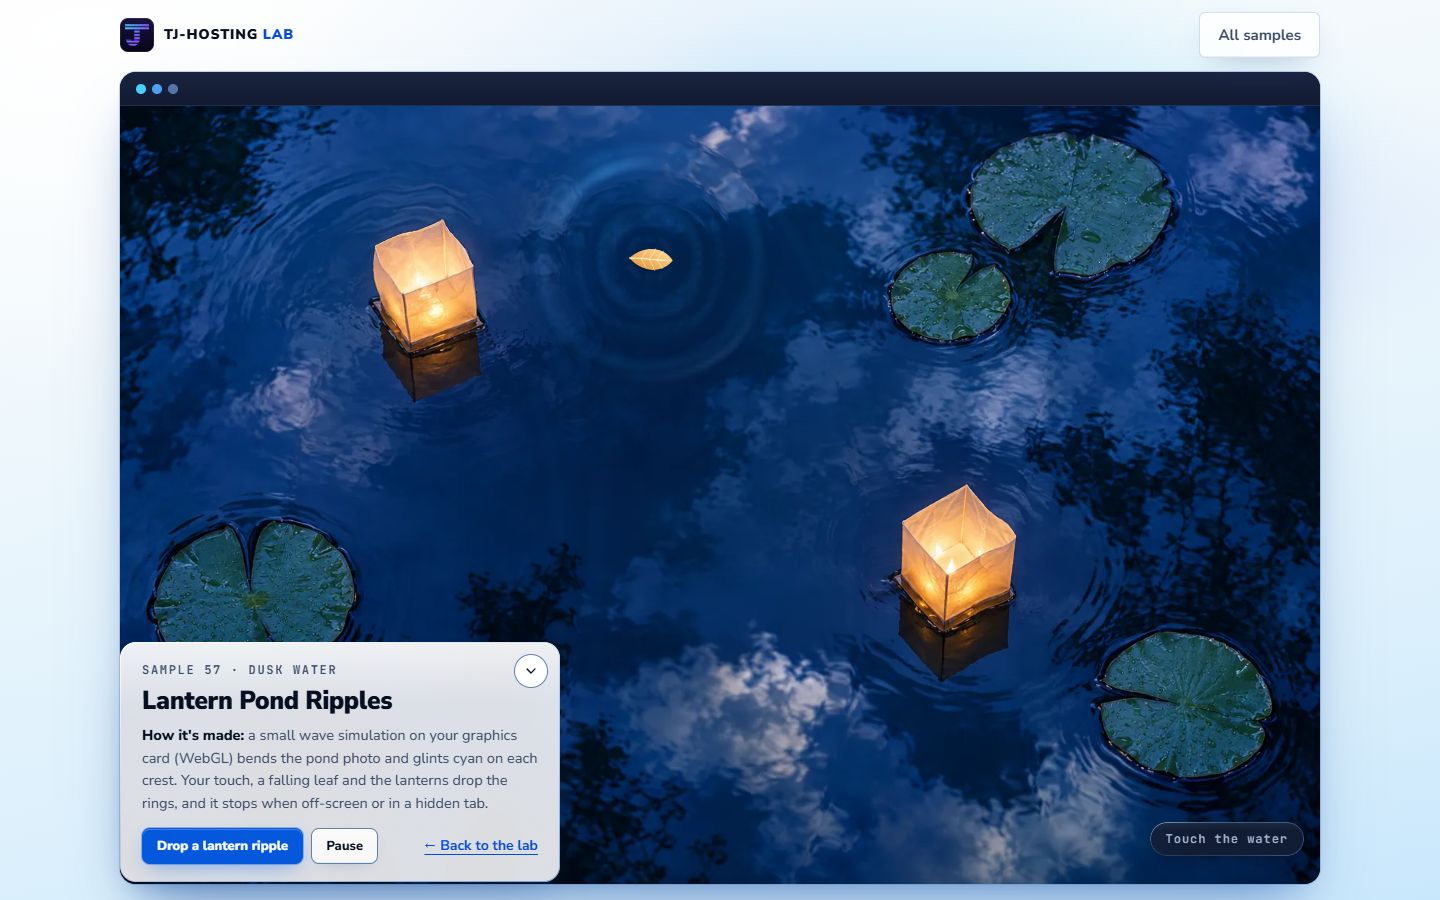
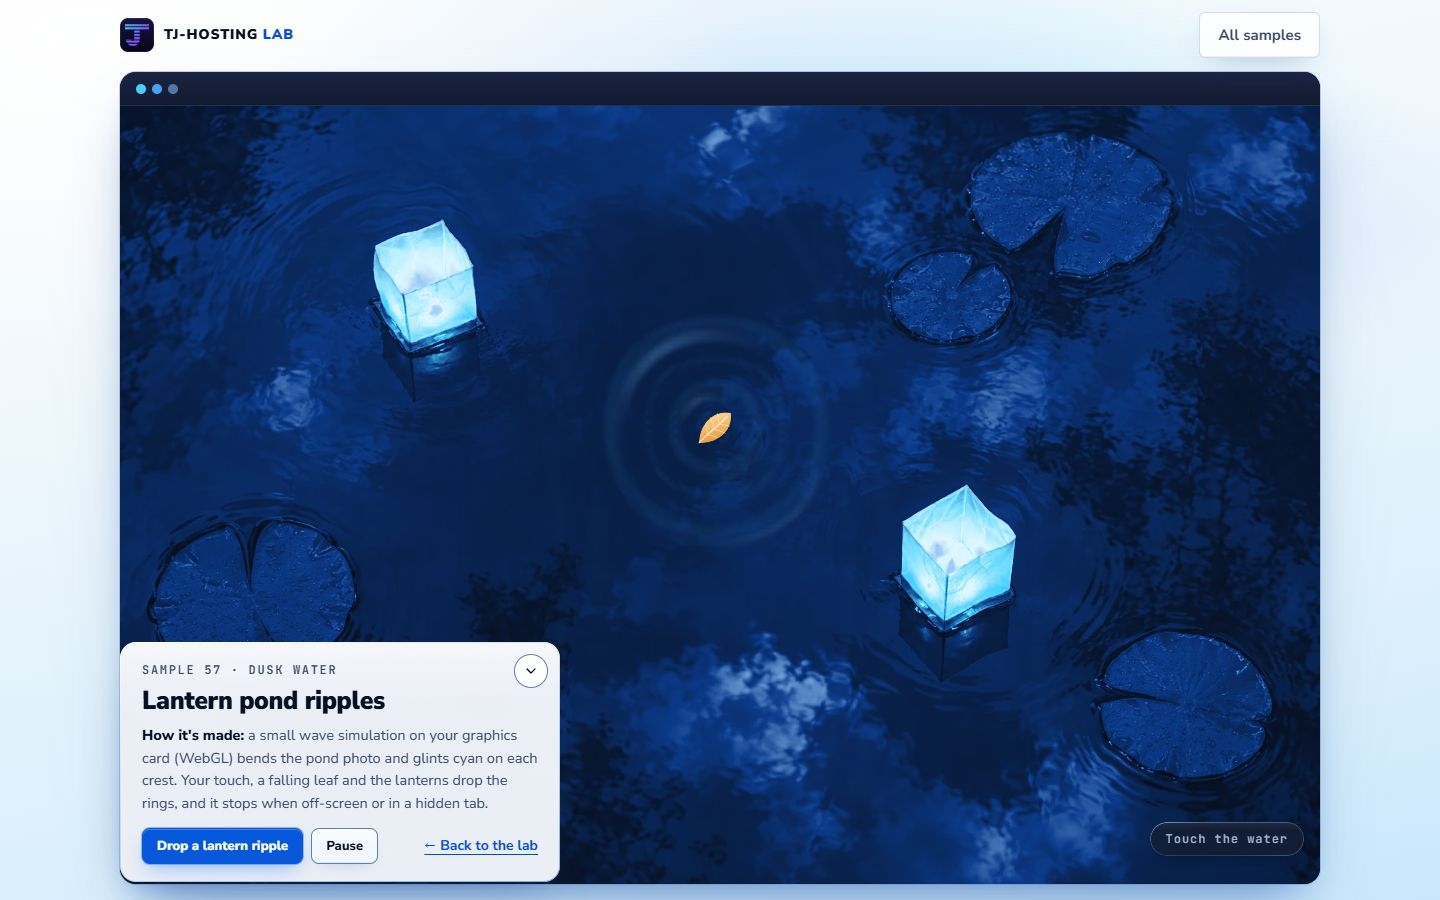
improve(lab-05): first fixes from the blind DS v9 review
review-1.md (Opus, images only): mostly, 7.5/10. Fixed: lantern-pond graded to a navy tritone with cyan lanterns; icon-micro-set heading as a heavy sans line with one script word, script words in ink on three more samples; pressed toggles as ink in a royal ring (all pages); the panel stays white-blue over dark windows; the back link on its own line on phones; liquid-glass-lens takes the navy frame bar; icon-micro-set bursts in cyan only. Remaining findings are listed in TASKS.

diff --git a/samples/lantern-pond/piece.js b/samples/lantern-pond/piece.js
@@ -4,7 +4,7 @@
  * float textures; each step every cell is pulled toward the average of its neighbours, damped, and added to itself;
  * a "drop" lifts a smooth bump that spreads out as rings. The render shader reads the slope of that field, bends the
  * photo along it, and adds a cyan glint and a cyan caustic where the surface catches the light. Pointer and finger
- * leave ripples; a golden leaf falls and lands with a ring every few seconds, and the two lanterns shed a faint ring
+ * leave ripples; a small golden leaf (the one warm accent) falls and lands with a ring every few seconds, and the two lanterns shed a faint ring
  * now and then, so the pond is alive on load. One loop() drives the simulation, the render and the leaf, so no WebGL
  * work runs off-screen or in a hidden tab. Under reduced motion a few rings are simulated at once, one still frame is
  * drawn and nothing moves. A browser without WebGL float textures gets the photo as a plain picture with a note.
@@ -19,7 +19,8 @@
  * at the next step; the simulation runs on a fixed 60 Hz clock; render() reads the newest height texture (the
  * source reads the one before it on every other frame); the texture probing runs in the page's own context and also
  * accepts half floats alone; precision falls back to mediump; the picture is drawn opaque; the render shader adds the
- * cyan caustic and glint (the glint was white); pointer events replace mouse and touch events and trace the stroke
+ * cyan caustic and glint (the glint was white); the photo is graded in the shader to a night-blue luminance tritone with
+ * the warm lantern light turned cyan-white; pointer events replace mouse and touch events and trace the stroke
  * between events; a lost context is rebuilt; the resolution and the render scale are picked by device and lowered if
  * frames run slow. New: the falling leaf, the lantern rings, the idle life, the reduced-motion still, the fallback.
  *
@@ -144,8 +145,10 @@ void main() {
 	gl_Position = vec4(vertex.x, -vertex.y, 0.0, 1.0);
 }`;
 
-/* the photo bent along the slope of the water, then a cyan glint where the slope faces the light,
-   and a cyan caustic where the surface curves like a lens (crests) */
+/* the photo bent along the slope of the water, graded to the site's night blues (a luminance tritone; the warm
+   lantern light becomes cyan-white glass light), then a cyan glint where the slope faces the light,
+   and a cyan caustic where the surface curves like a lens (crests).
+   The ramps are mirrored by the SVG filter #pond-grade in index.html (the no-WebGL picture), so keep them in step. */
 const RENDER_FRAGMENT = `${PRECISION}
 uniform sampler2D samplerBackground;
 uniform sampler2D samplerRipples;
@@ -153,7 +156,23 @@ uniform vec2 delta;
 uniform float perturbance;
 varying vec2 ripplesCoord;
 varying vec2 backgroundCoord;
-const vec3 CYAN = vec3(0.275, 0.816, 0.984);
+const vec3 CYAN = vec3(0.275, 0.816, 0.984);   // #46d0fb
+const vec3 SHADOW = vec3(0.0235, 0.0471, 0.0941); // #060c18
+const vec3 MID = vec3(0.0431, 0.2275, 0.5412);    // #0b3a8a
+const vec3 HIGH = vec3(0.6235, 0.8157, 0.9843);   // #9fd0fb
+const vec3 ICE = vec3(0.8784, 0.9686, 1.0);       // #e0f7ff
+const float MID_AT = 0.42;
+vec3 tritone(float l) {
+	return mix(mix(SHADOW, MID, clamp(l / MID_AT, 0.0, 1.0)), mix(MID, HIGH, clamp((l - MID_AT) / (1.0 - MID_AT), 0.0, 1.0)), step(MID_AT, l));
+}
+vec3 glowRamp(float l) {
+	return mix(mix(MID, CYAN, smoothstep(0.18, 0.55, l)), ICE, smoothstep(0.55, 0.92, l));
+}
+vec3 grade(vec3 c) {
+	float l = pow(dot(c, vec3(0.2126, 0.7152, 0.0722)), 0.78); // a gentle lift, so the water reads royal rather than black
+	float warm = clamp((c.r - c.b) * 3.0 - 0.2, 0.0, 1.0); // amber and orange (the lanterns and their reflections); water, pads and clouds sit at 0
+	return mix(tritone(l), glowRamp(l), warm);
+}
 void main() {
 	float height = texture2D(samplerRipples, ripplesCoord).r;
 	float heightX = texture2D(samplerRipples, vec2(ripplesCoord.x + delta.x, ripplesCoord.y)).r;
@@ -165,7 +184,7 @@ void main() {
 	vec2 offset = -normalize(cross(dy, dx)).xz;
 	float specular = pow(max(0.0, dot(offset, normalize(vec2(-0.6, 1.0)))), 4.0);
 	float lens = max(0.0, (4.0 * height - heightX - heightY - heightMX - heightMY)) * 55.0;
-	vec3 photo = texture2D(samplerBackground, backgroundCoord + offset * perturbance).rgb;
+	vec3 photo = grade(texture2D(samplerBackground, backgroundCoord + offset * perturbance).rgb);
 	vec3 light = mix(vec3(1.0), CYAN, 0.55) * specular * 0.85 + CYAN * min(lens, 1.0) * 0.45;
 	gl_FragColor = vec4(photo + light, 1.0);
 }`;

diff --git a/samples/lantern-pond/index.html b/samples/lantern-pond/index.html
@@ -34,6 +34,30 @@
 
 	<div class="sky" aria-hidden="true"></div>
 
+	<!-- the night-blue grade for the plain photo (the no-WebGL picture): the same luminance tritone and cyan lantern light as the shader in piece.js -->
+	<svg class="grade-defs" width="0" height="0" aria-hidden="true" focusable="false">
+		<filter id="pond-grade" x="0" y="0" width="1" height="1" color-interpolation-filters="sRGB">
+			<feColorMatrix in="SourceGraphic" type="matrix" values="0.2126 0.7152 0.0722 0 0  0.2126 0.7152 0.0722 0 0  0.2126 0.7152 0.0722 0 0  0 0 0 1 0" result="lum0"/>
+			<feComponentTransfer in="lum0" result="lum">
+				<feFuncR type="gamma" exponent="0.78"/><feFuncG type="gamma" exponent="0.78"/><feFuncB type="gamma" exponent="0.78"/>
+			</feComponentTransfer>
+			<feComponentTransfer in="lum" result="tri">
+				<feFuncR type="table" tableValues="0.024 0.026 0.029 0.032 0.035 0.038 0.041 0.061 0.123 0.186 0.248 0.311 0.373 0.436 0.498 0.561 0.624"/>
+				<feFuncG type="table" tableValues="0.047 0.074 0.101 0.128 0.154 0.181 0.208 0.245 0.309 0.372 0.435 0.499 0.562 0.626 0.689 0.752 0.816"/>
+				<feFuncB type="table" tableValues="0.094 0.161 0.227 0.294 0.360 0.427 0.493 0.555 0.602 0.650 0.698 0.746 0.793 0.841 0.889 0.937 0.984"/>
+			</feComponentTransfer>
+			<feComponentTransfer in="lum" result="glow">
+				<feFuncR type="table" tableValues="0.043 0.043 0.043 0.043 0.065 0.111 0.168 0.223 0.263 0.277 0.339 0.463 0.613 0.755 0.854 0.878 0.878"/>
+				<feFuncG type="table" tableValues="0.227 0.227 0.227 0.228 0.283 0.400 0.545 0.686 0.786 0.816 0.832 0.863 0.901 0.937 0.962 0.969 0.969"/>
+				<feFuncB type="table" tableValues="0.541 0.541 0.541 0.542 0.583 0.671 0.781 0.886 0.962 0.984 0.986 0.989 0.993 0.997 0.999 1.000 1.000"/>
+			</feComponentTransfer>
+			<feColorMatrix in="SourceGraphic" type="matrix" values="0 0 0 0 0  0 0 0 0 0  0 0 0 0 0  3 0 -3 0 -0.2" result="warm"/>
+			<feComposite in="glow" in2="warm" operator="in" result="glow-part"/>
+			<feComposite in="tri" in2="warm" operator="out" result="tri-part"/>
+			<feComposite in="glow-part" in2="tri-part" operator="arithmetic" k1="0" k2="1" k3="1" k4="0"/>
+		</filter>
+	</svg>
+
 	<header class="topbar">
 		<a class="brand" href="../../" aria-label="TJ-Hosting Lab, home">
 			<img src="../../img/brand/tj-mark.svg" alt="" width="34" height="34">
@@ -44,7 +68,7 @@
 		</nav>
 	</header>
 
-	<!-- stage A: a framed night screen. The pond is a dusk photograph, dark blue with warm lantern light, so it reads on dark.
+	<!-- stage A: a framed night screen. The pond is a dusk photograph, graded in the shader to the site's night blues with the lantern light turned cyan, so it reads on dark.
 	     The leaf is a small inline drawing moved by transform and opacity from the loop. The poster appears only if WebGL is missing. -->
 	<main id="main" class="stage stage--screen">
 		<div class="piece-screen screen" data-night>

diff --git a/samples/lantern-pond/piece.css b/samples/lantern-pond/piece.css
@@ -1,6 +1,6 @@
 /* Sample 57 — Lantern Pond Ripples. The shell (sky, top bar, panel, the night screen) comes from css/; only the piece is styled here.
-   The pond is a dusk photograph (dark blue water, warm lantern light), so the piece runs in a framed night screen (stage A).
-   The water is drawn by the shaders in piece.js. The leaf is a small inline drawing in a warm gold, moved only by transform and opacity. */
+   The pond is a dusk photograph graded to night blues (lantern light turned cyan), so the piece runs in a framed night screen (stage A).
+   The water is drawn by the shaders in piece.js. The leaf is a small inline drawing in a warm gold (the piece's one warm accent), moved only by transform and opacity. */
 
 .piece {
 	display: block;
@@ -55,7 +55,8 @@
 	width: 100%;
 	height: 100%;
 }
-.poster img { object-fit: cover; object-position: 64% 50%; }
+.poster img { object-fit: cover; object-position: 64% 50%; filter: url(#pond-grade); } /* the same night-blue grade as the shader */
+.grade-defs { position: absolute; width: 0; height: 0; overflow: hidden; pointer-events: none; }
 .poster__note {
 	position: relative;
 	margin: 0;

diff --git a/samples/icon-micro-set/piece.css b/samples/icon-micro-set/piece.css
@@ -35,13 +35,16 @@
 	width: min(960px, 100%);
 }
 
+/* the heading as the Lab writes one (lab-05 P5 review): a heavy sans line in ink with one script word, also in ink */
 .lead-script {
 	margin: 0;
-	color: var(--ic-navy);
-	font-size: clamp(34px, 4.4vw, 52px);
-	line-height: 1.1;
+	color: var(--ink-black);
+	font: 900 clamp(30px, 3.6vw, 44px) / 1.1 var(--font-display);
+	font-stretch: 92%;
+	letter-spacing: -0.015em;
 	text-align: center;
 }
+.lead-script .script { font-size: 1.25em; line-height: 0.9; }
 .demo {
 	max-width: 100%;
 	padding: 6px 14px;
@@ -194,7 +197,7 @@
 @media (max-width: 720px) {
 	.stage { padding: 80px var(--gutter) 292px; }
 	.piece-open { gap: 10px; }
-	.lead-script { font-size: 32px; }
+	.lead-script { font-size: 28px; }
 	.demo { padding: 5px 12px; font-size: 13px; line-height: 19px; }
 }
 @media (max-height: 640px) {

diff --git a/css/sample.css b/css/sample.css
@@ -24,6 +24,9 @@
 	bottom: max(18px, env(safe-area-inset-bottom));
 	width: min(440px, calc(100% - 2 * var(--gutter)));
 	padding: 20px 22px 18px;
+	/* denser than other glass: over a dark window the blur otherwise greys it; DS v9's cards stay white-blue */
+	--glass-tint: rgba(244, 248, 253, 0.97);
+	--glass-tint-strong: rgba(244, 248, 253, 0.98);
 }
 .sample-info h1 {
 	font: 900 clamp(22px, 2.2vw, 26px) / 1.15 var(--font-display);
@@ -50,6 +53,10 @@
 	color: var(--accent-text);
 }
 .controls .back:hover { color: var(--ink); }
+/* on a phone the back link always takes its own line at the right, so the panel looks the same on every sample */
+@media (max-width: 560px) {
+	.controls .back { flex-basis: 100%; text-align: right; }
+}
 
 .hint {
 	position: fixed;

diff --git a/css/lab.css b/css/lab.css
@@ -429,11 +429,12 @@ main { display: block; overflow-x: clip; } /* decorative art may hang past the e
 .btn--sm { min-height: 36px; padding: 7px 14px; font-size: 13px; }
 .btn svg { width: 16px; height: 16px; transition: transform var(--t-surface) var(--ease-settle); }
 .btn:hover svg { transform: translateX(3px); }
+/* a toggle that is on: ink text in a 2px royal ring (DS v9's selected secondary), so only the primary is blue-filled */
 .btn[aria-pressed="true"] {
 	border-color: var(--action);
 	background: var(--raised);
-	color: var(--accent-text);
-	box-shadow: inset 0 0 0 1px var(--action);
+	color: var(--ink);
+	box-shadow: inset 0 0 0 2px var(--action);
 }
 
 /* ---------- pills: labels, not buttons (DS v9 .tj-pill on light glass) ---------- */

diff --git a/samples/icon-micro-set/piece.js b/samples/icon-micro-set/piece.js
@@ -172,7 +172,8 @@ function flip(t, on, { dots = 14 } = {}) {
 
 /* ---------- the burst: small dots on a ballistic arc, written fresh with the Web Animations API ---------- */
 
-const COLORS = ['#0c6bed', '#4d9ff3', '#46d0fb', '#0b2a63', '#ffffff', '#46d0fb'];
+// light only (lab-05 P5 review): cyan and azure sparks, no navy, so a dot that strays past the card reads as light, not a speck
+const COLORS = ['#46d0fb', '#4d9ff3', '#46d0fb', '#8fd8fb', '#2b8ff0', '#46d0fb'];
 const rand = (a, b) => a + Math.random() * (b - a);
 
 function burst(t, count) {

diff --git a/samples/icon-micro-set/index.html b/samples/icon-micro-set/index.html
@@ -55,7 +55,7 @@
 		<div class="glow" aria-hidden="true"><span class="glow__a"></span><span class="glow__b"></span></div>
 
 		<div class="piece-open" id="piece">
-			<p class="script lead-script">Six small switches</p>
+			<p class="lead-script">Six small <span class="script">switches</span></p>
 			<p class="pill demo"><span class="pill__dot" aria-hidden="true"></span>Demo toggles · they change nothing else</p>
 
 			<div class="bar glass glass--xl glass--strong" id="bar" role="toolbar" aria-label="Icon toggles (demo)"></div>

diff --git a/samples/liquid-glass-lens/piece.css b/samples/liquid-glass-lens/piece.css
@@ -184,3 +184,9 @@ body .lqg-glass:focus-visible { outline: 3px solid var(--action); outline-offset
 @media (prefers-reduced-motion: reduce) {
 	.lens-round, .lens-round:hover, .lens-round:active { transform: none; }
 }
+
+/* lab-05 P5 review: the art is mid-to-dark blue, so the window takes the navy bar of the night frame, not the day frame's white one */
+.screen--day::before {
+	background: linear-gradient(180deg, #1a2440, #111a30);
+	border-bottom: 1px solid #22304f;
+}

diff --git a/samples/glass-hero-kit/piece.css b/samples/glass-hero-kit/piece.css
@@ -167,7 +167,7 @@ noscript .note { text-transform: none; letter-spacing: 0; }
 	line-height: 1.04;
 	text-wrap: balance;
 }
-.kit-hero__title .script { font-size: 1.22em; line-height: 0.9; color: var(--accent-text); white-space: nowrap; }
+.kit-hero__title .script { font-size: 1.22em; line-height: 0.9; color: var(--ink-black); white-space: nowrap; }
 
 .kit-hero__lede {
 	margin: 14px auto 0;

diff --git a/samples/request-in-ms/piece.css b/samples/request-in-ms/piece.css
@@ -62,7 +62,7 @@
 	letter-spacing: -0.03em;
 	text-wrap: balance;
 }
-.hero__title .script { font-size: 1.2em; color: var(--accent-text); }
+.hero__title .script { font-size: 1.2em; color: var(--ink-black); }
 .hero__lede { margin: 0; max-width: 92ch; font: 500 16px / 24px var(--font-sans); color: var(--muted); }
 
 /* ---------- the trip: a tall box, 5 px for each millisecond ---------- */

diff --git a/samples/stacking-plan-cards/piece.css b/samples/stacking-plan-cards/piece.css
@@ -62,7 +62,7 @@
 	font-stretch: 88%;
 	letter-spacing: -0.03em;
 }
-.plans__title .script { font-size: 1.22em; color: var(--accent-text); }
+.plans__title .script { font-size: 1.22em; color: var(--ink-black); }
 .plans__lede { margin: 0; max-width: 24ch; font: 500 16px / 24px var(--font-sans); color: var(--muted); }
 
 .rail { --lx: 11px; position: relative; margin-top: 26px; }
